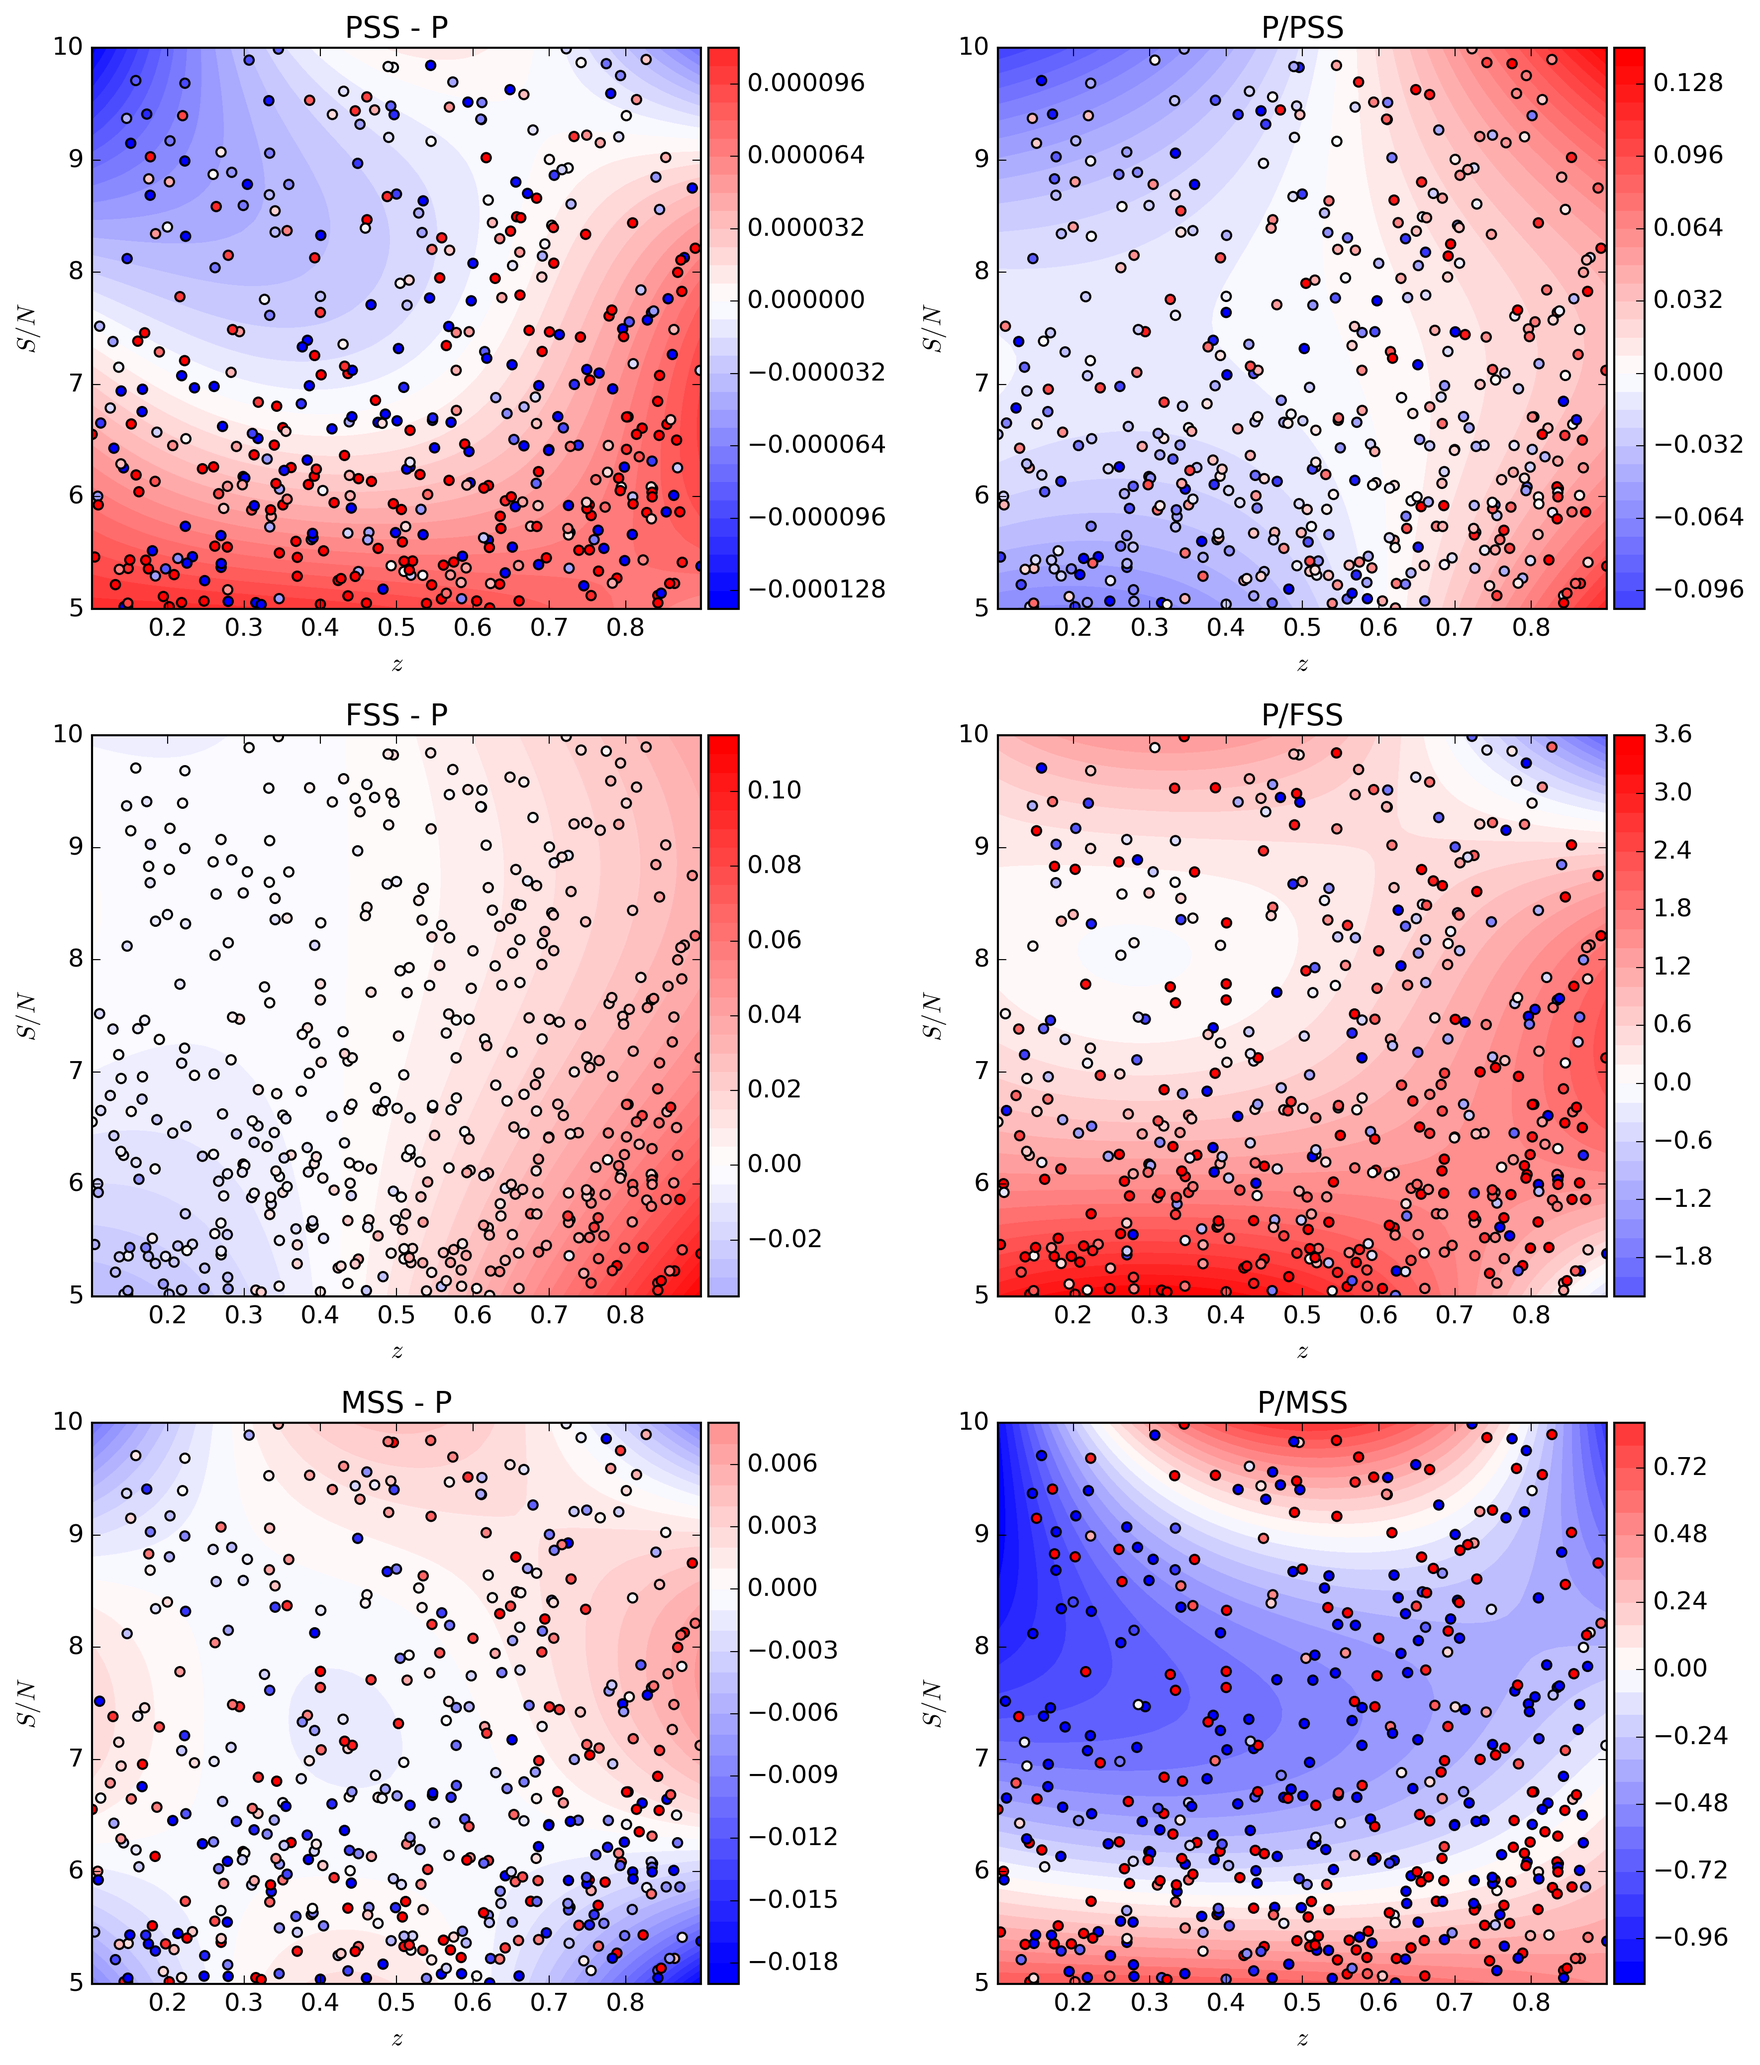
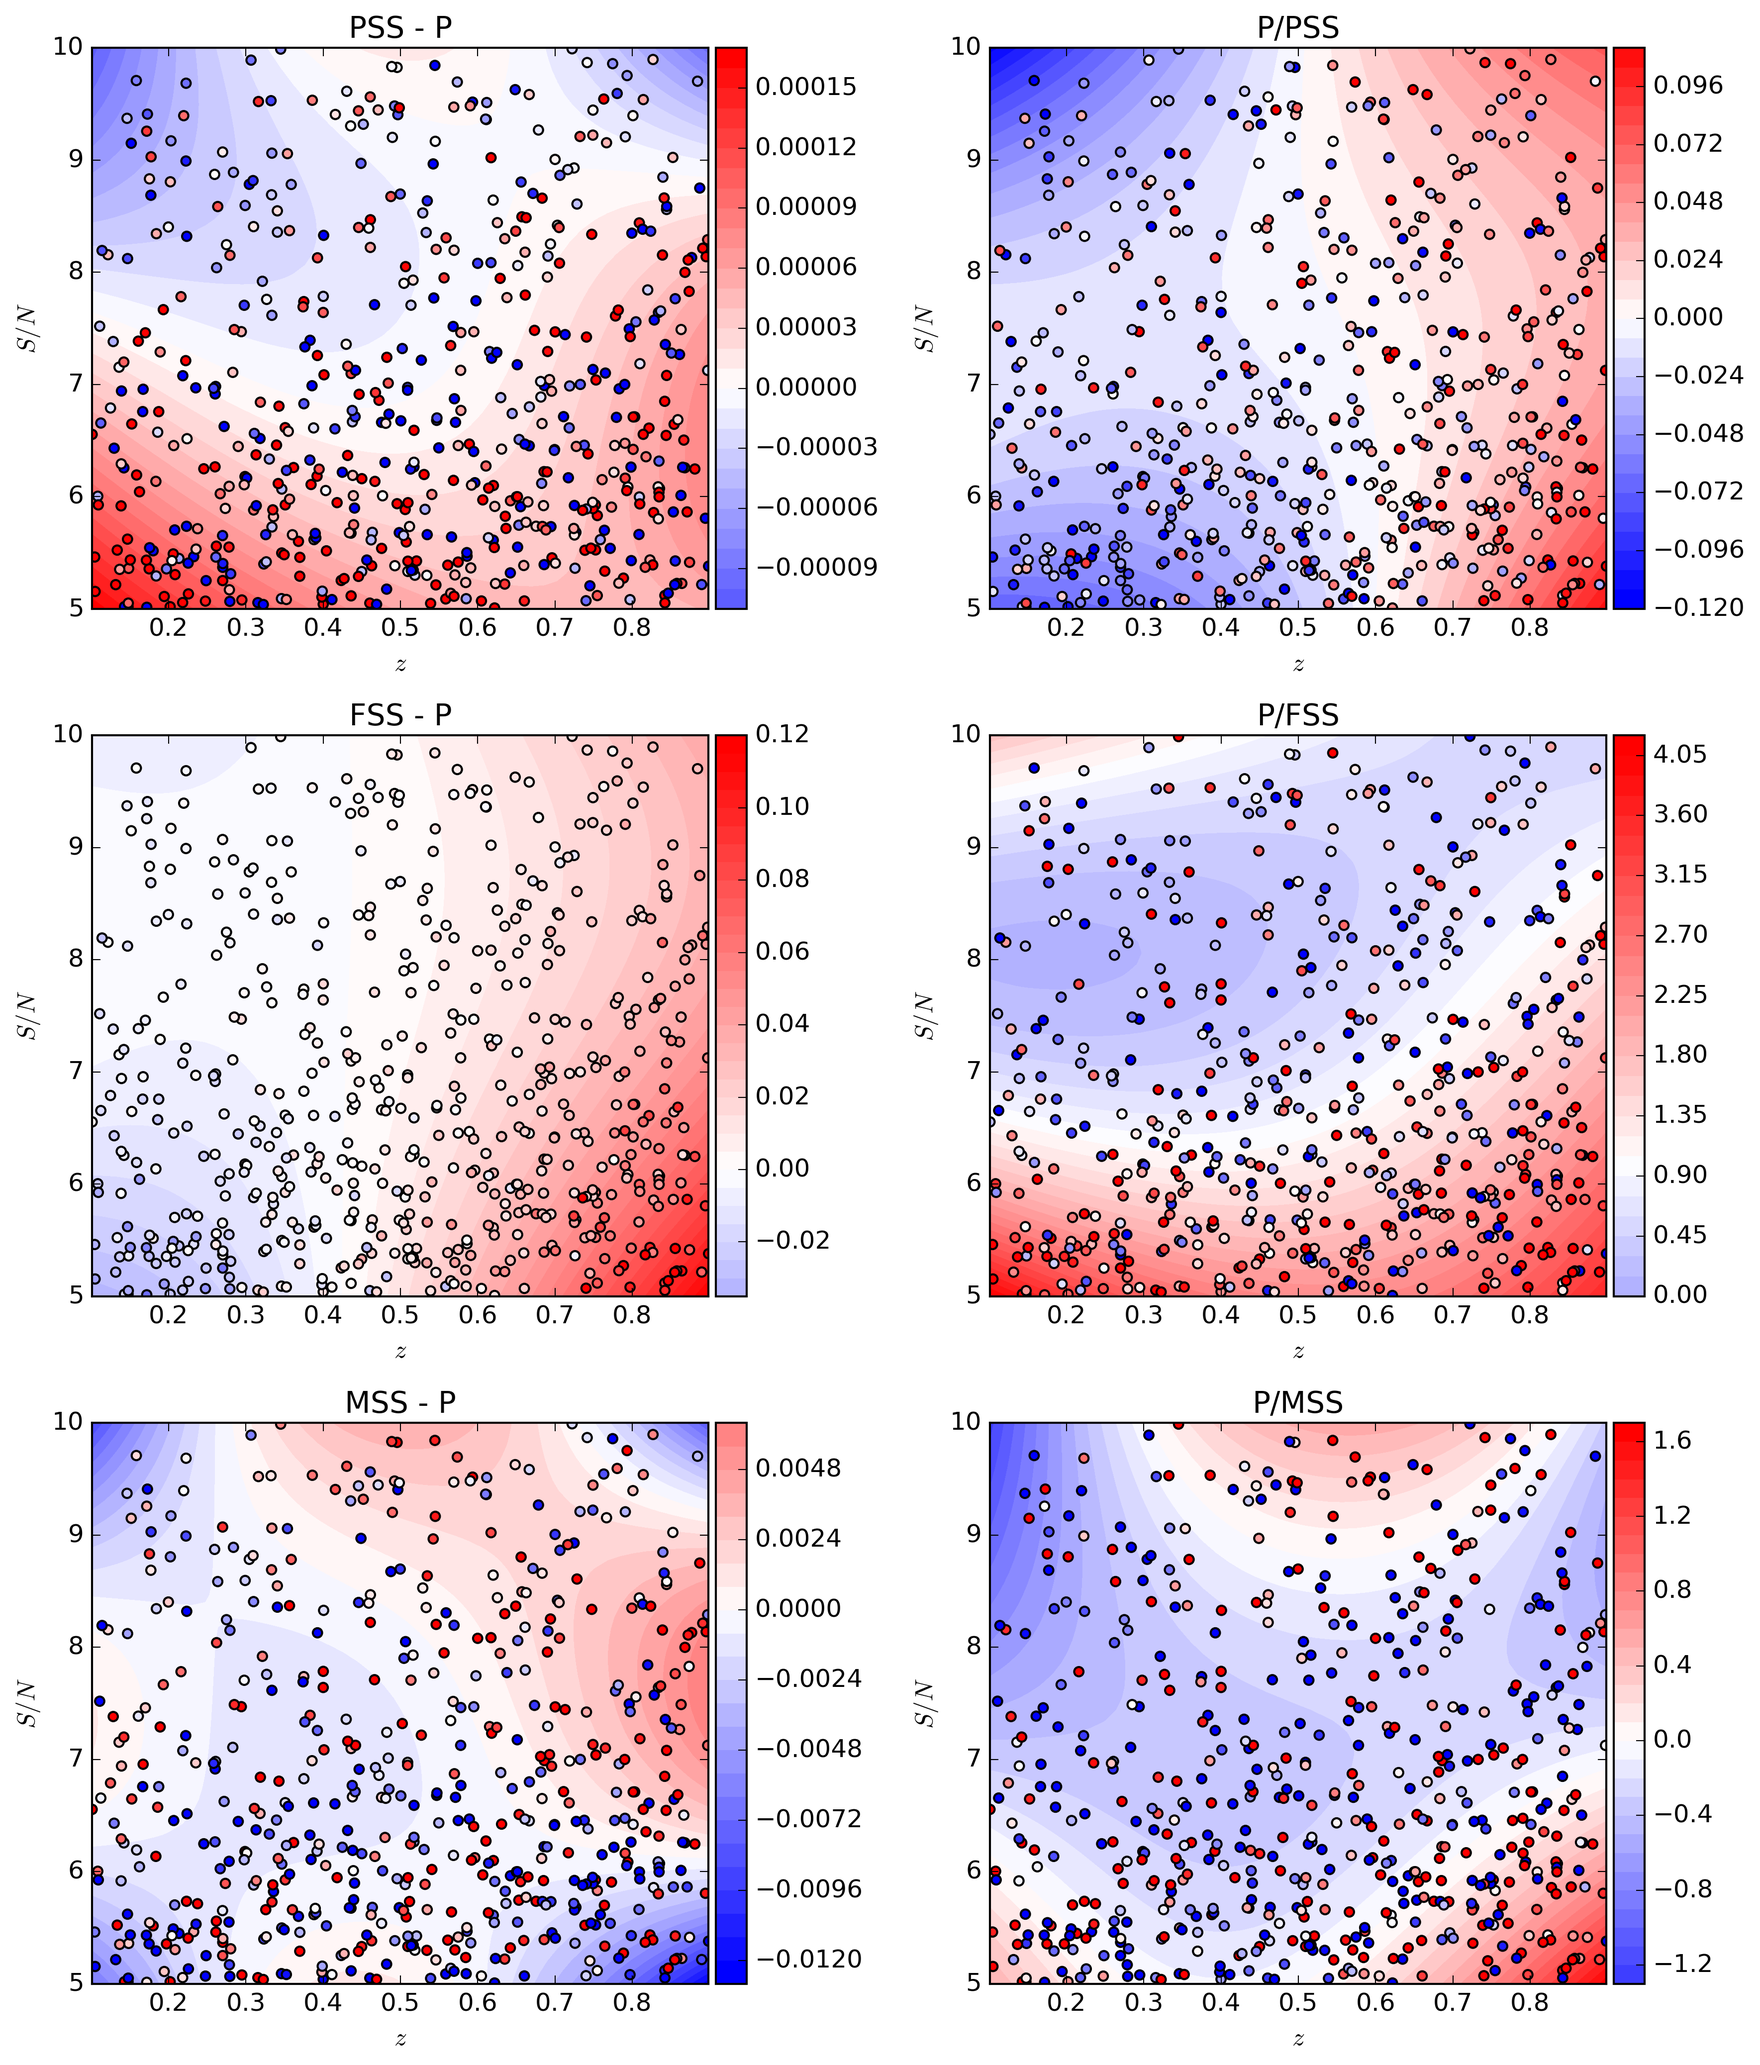
1000 samples

diff --git a/dessn/investigations/gaussianity/ston_and_redshift.py b/dessn/investigations/gaussianity/ston_and_redshift.py
@@ -19,8 +19,16 @@ def realise_light_curve(seed):
     x0 = 1e-5
     x1 = 0
     c = 0
-    z = np.random.uniform(0.1, 0.9)
-
+    e = False and np.random.random() > 0.8
+    if e:
+        u = np.random.random() > 0.3
+        if u:
+            z = 0.1
+        else:
+            z = 0.9
+    else:
+        z = np.random.uniform(0.1, 0.9)
+    sn = np.random.uniform(low=50, high=300)
     num_obs = 20
     deltat = -35
     ts = np.arange(t0 + deltat, (t0 + deltat) + 5 * num_obs, 5)
@@ -28,7 +36,7 @@ def realise_light_curve(seed):
     times = np.array([[t, t + 0.05, t + 0.1, t + 0.2] for t in ts]).flatten()
     bands = [b for t in ts for b in ['desg', 'desr', 'desi', 'desz']]
     gains = np.ones(times.shape)
-    skynoise = np.random.uniform(low=50, high=300) * np.ones(times.shape)
+    skynoise = sn * np.ones(times.shape)
     zp = 30 * np.ones(times.shape)
     zpsys = ['ab'] * times.size
 
@@ -210,7 +218,7 @@ if __name__ == "__main__":
     if not os.path.exists(temp_dir):
         os.makedirs(temp_dir)
 
-    n = 800
+    n = 1000
     res = Parallel(n_jobs=4, max_nbytes="20M", verbose=100, batch_size=1)(delayed(get_result)(
         temp_dir, i) for i in range(n))
     res = np.array([r for r in res if r is not None])

diff --git a/dessn/investigations/gaussianity/__init__.py b/dessn/investigations/gaussianity/__init__.py
@@ -105,7 +105,9 @@ the mean value for :math:`\mu+M` is shown in the figure below.
 With reference to the above figure, we can see that the summary statistics provide
 accurate statistics when the mean and covariance are determined from the ``emcee`` distribution,
 implying low skewness of the posterior surface. However, the difference between the
-``minuit`` fits and ``emcee`` fits gives rise to a difference which is not negligible.
+``minuit`` fits and both ``emcee`` fits gives rise to a difference which is not negligible.
+
+
 
 
 
